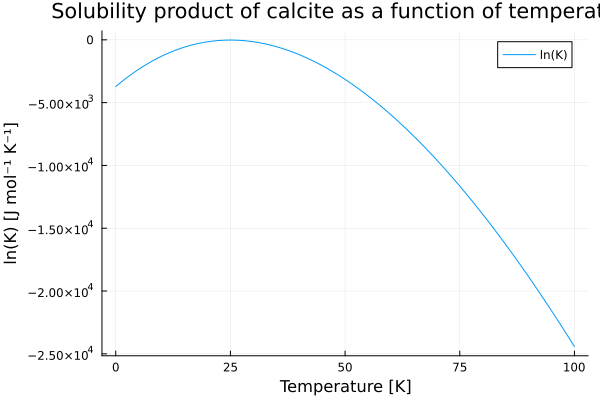
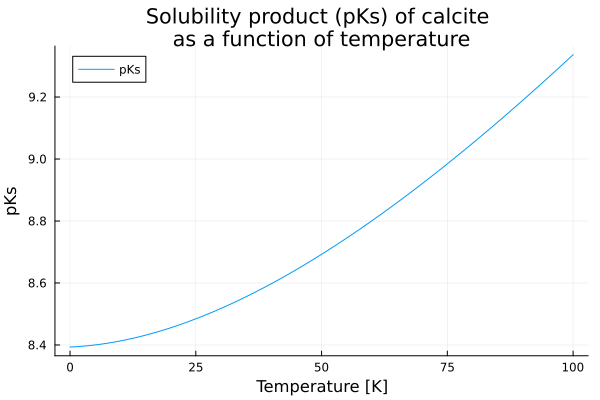
update doc.

diff --git a/docs/src/man/databases.md b/docs/src/man/databases.md
@@ -2,7 +2,7 @@
 
 So far, we have looked at the possibility of creating and manipulating any species, whether they exist or not. If we wanted to create a H₂O⁺⁴ molecule, it would not be a problem. However, you will admit that it is a little strange...
 
-This is why Cement Chemistry relies on existing databases, in particular [Cemdata18](https://www.empa.ch/web/s308/thermodynamic-data) and [PSI-Nagra-12-07](https://www.psi.ch/en/les/thermodynamic-databases). Cemdata18 is a chemical thermodynamic database for hydrated Portland cements and alkali-activated materials. PSI-Nagra is a Chemical Thermodynamic Database. The formalism adopted for these databases is that of [Thermofun](https://thermohub.org/thermofun/thermofun/) which is a universal open-source client that delivers thermodynamic properties of substances and reactions at the temperature and pressure of interest. The information is stored in json files.
+This is why ChemistryLab relies on existing databases, in particular [Cemdata18](https://www.empa.ch/web/s308/thermodynamic-data) and [PSI-Nagra-12-07](https://www.psi.ch/en/les/thermodynamic-databases). Cemdata18 is a chemical thermodynamic database for hydrated Portland cements and alkali-activated materials. PSI-Nagra is a Chemical Thermodynamic Database. The formalism adopted for these databases is that of [Thermofun](https://thermohub.org/thermofun/thermofun/) which is a universal open-source client that delivers thermodynamic properties of substances and reactions at the temperature and pressure of interest. The information is stored in json files.
 
 ## Database parsing
 
@@ -10,47 +10,44 @@ With ChemistryLab, you can parse a ThermoFun-like json file and return DataFrame
 
 ```julia
 using ChemistryLab
-df_elements, df_substances, df_reactions, dict_species, dict_reactions = read_thermofun("../../../data/cemdata18-merged")
+filebasename = "cemdata18-merged.json"
+df_elements, df_substances, df_reactions = read_thermofun_database("../../../data/" * filebasename)
 ```
 
 For easier reading, the following commands can be run:
 
-```julia
+```@example database
+using ChemistryLab #hide
+filebasename = "cemdata18-merged.json" #hide
+df_elements, df_substances, df_reactions = read_thermofun_database("../../../data/" * filebasename) #hide
 show(df_elements, allcols=true, allrows=true)
 show(df_substances, allcols=true, allrows=false)
 show(df_reactions, allcols=true, allrows=false)
 ```
 
-!!! note "Units"
-    By default, when reading the database, the units of the various physical quantities are read. To remove this option, simply write `with_units=false` in the arguments of the `read_thermofun` function.
-
-Reading can also be done by entity using functions `read_thermofun_elements`, `read_thermofun_substances` or `read_thermofun_reactions`. For example, reading of substances can be done as follows:
-
-```julia
-df_substances = read_thermofun_substances("data/cemdata18-merged.json"; with_units=true, add_species=true, all_properties=true, debug=false)
-```
-
-<!-- !!! warning "Database loading speed"
-    Loading databases can be time-consuming because ChemistryLab reconstructs numerous structures, such as 'Species' and their associated properties, as well as 'Reactions'. However, this reconstruction, when performed from databases, is not intended to be repeated multiple times, as the databases are static. One way to increase loading speed is to serialize the data used by ChemistryLab and save the result in its working directory. This can be done as follows:
-    ```julia
-    using Serialization
-    serialize("cemdata18.jls", (df_substances, df_reactions))
-    df_substances, df_reactions = deserialize("cemdata18.jls")
-    ``` -->
-
 ## Species properties construction during database parsing
-Species properties can be constructed while reading the database with `all_properties=true` as an argument. These properties are values or functions that generally depend on temperature. This is the default option. However, the construction process can be time-consuming. Therefore, it's wise to call this type of function sparingly.
+All species in the database could be constructed from Dataframes obtained by reading the database. However, this operation is time-consuming and of little practical value, as the chemical reactions of interest are often a much smaller subset.
 
-Currently, species properties are: molar mass (`molar_mass`), a reference temperature `Tref`, heat capacity `Cp` (see [here](./species.md) to express `Cp` as a function of the temperature), enthalpy change of formation `ΔₐH`, entropy of formation `S`, Gibbs energy of formation `ΔₐG`, and molar volume `V⁰`. Values and functions are described in [Cemdata18 paper](https://www.empa.ch/web/s308/thermodynamic-data).
+Let's take a subset representing the dissolution of calcite in pure water. `get_compatible_species` allows us to construct the subset of species that can be present during the reaction of calcite in water.
 
 ```julia
-df_elements, df_substances, df_reactions, dict_species, dict_reactions = read_thermofun("../../../data/cemdata18-merged"; with_units=true, all_properties=true)
+df_calcite = get_compatible_species(split("Cal H2O@"), df_substances;
+                        aggregate_states=[AS_AQUEOUS], exclude_species=split("H2@ O2@ CH4@"), union=true)
 ```
 
-For each species, properties can then be obtained as follows:
+The construction of thermodynamic functions is then done by calling the `build_species_from_database` function:
 
 ```julia
-dict_species["Portlandite"]
+dict_species_calcite = build_species_from_database(df_calcite)
+```
+
+For example, $\text{Ca}(\text{HCO}_3)^+$ properties can be read as follows:
+
+```@example database
+df_calcite = get_compatible_species(split("Cal H2O@"), df_substances;
+                        aggregate_states=[AS_AQUEOUS], exclude_species=split("H2@ O2@ CH4@"), union=true) #hide
+dict_species_calcite = build_species_from_database(df_calcite) #hide
+dict_species_calcite["Ca(HCO3)+"]
 ```
 
 ## Primary species extraction

diff --git a/docs/src/man/species.md b/docs/src/man/species.md
@@ -85,35 +85,45 @@ CO₂ = Species(Dict(:C=>1, :O=>2); name="Carbon dioxide", symbol="CO₂⤴", ag
 
 The molar mass is systematically calculated and integrated into the species properties. The heat capacity function is also integrated as a predefined function of the `Species` structure. This function is expressed as follows:
 
-${C_p}^° = a_0 + a_1 T + a_2 T^{−2} + a_3 T^{−0.5}$
+$a_0 + a_1 * T + a_2 * T^{-2} + a_3 * T^{-0.5} + a_4 * T^2 + a_5 * T^3 + a_6 * T^4 + a_7 * T^{-3} + a_8 * T^{-1} + a_9 * T^{0.5} + a_{10} * log(T)$
 
 Other species properties are open and left to the discretion of users. We can of course imagine that these properties could contain thermodynamic properties such as the Gibbs energy of formation or even the entropy variation, these properties themselves being temperature dependent. These properties must nevertheless respect one of the following types: `Number`, `AbstractVector{<:Number}`, `Function`, `AbstractString`.
 
-Imagine, for example, that we wanted to construct the $CO_2$ molecule with some of its thermodynamic properties. The Gibbs energy of formation of this species is equal to $-394.39\; KJ/mol$. This property, intrinsic to the species, can be added simply as follows:
+Imagine, for example, that we wanted to construct the $CO_2$ molecule in a gaseous state with some of its thermodynamic properties. The thermodynamic properties of the molecule, which can be found for example on the website [thermoddem](https://thermoddem.brgm.fr/), are as follows at 298 K and 1 atm:
 
-```@example CO2
-using DynamicQuantities, ModelingToolkit
-CO₂.ΔₐG⁰ = -394.39u"kJ/mol"
-```
+- heat capacity ${C_p}^°$: 37.14 $J.mol^{-1}.K^{-1}$
+- molar volume $V^°$: 25.3 $cm^3.mol^{-1}$
+- enthalpy of formation $\Delta_a {H^°}$: -393510 $J.mol^{-1}$
+- entropy $S^°$: 213.785 $J.mol^{-1}.K^{-1}$ 
+- Gibbs free energy of formation $\Delta_a {G^°}: -394373 $J.mol^{-1}$
 
-Heat capacity, on the other hand, is introduced in the following way: 
+Furthermore, as explained above, heat capacity is a function of temperature. The parameters $a_0$, $a_1$, $a_2$, and $a_3$ can also be found on the same website. For CO2, the values are as follows: $a_0 = 33.98$, $a_1 = 23.88e-3$, $a_2 = 0$ et $a_3 = 0$. 
 
-<!-- @example CO2 -->
 ```julia
-coeffs = [:a₀ => 44.22u"J/K/mol", :a₁ => 0.0088u"J/mol/K^2", :a₂ => -861.904e6u"J*K/mol", :a₃ => 0.0u"J/mol/√K"]
-CO₂.Cp = ThermoFunction(dict_cp_ft_equation[:Cp], coeffs; ref=[:T=>298.15u"K", :P=>1u"bar"])
+using DynamicQuantities, ModelingToolkit
+th_prop_0_CO2 = Dict(:Cp⁰ => 37.14, :ΔₐH⁰ => -393510, :S⁰ => 213.785, :ΔₐG⁰ => -394373, :V⁰ => 25.3)
+coeffs = Dict(:a₀ => 33.98, :a₁ => 23.88e-3, :a₂ => 0.0, :a₃ => 0.0)
 ```
 
-!!! note "Heat capacity value"
-    By default, the call of $C_p$ function return the value of the function for a temperature equal to $T_{ref}$.
+!!! note "Heat capacity function"
+    Although the function describing heat capacity has many parameters, it is of course possible to use only some of them. Here, only the parameters $a_0$ and $a_1$ are non-zero. The expression therefore becomes: $a_0 + a_1 * T$.
+
+
+!!! danger "Reference temperature"
+    It is important to define the reference temperature at which the thermodynamic properties are measured.
     ```julia
-    CO₂.Cp()
+    T_ref = Dict(:T => 298.15)
     ```
 
-Other functions can be added to species. For example, we can add a `rate` to the CO2 species:
+#### Heat capacity, enthalpy and free energy as a function of temperature
 
-<!-- @example CO2 -->
-```julia
-CO₂.rate = ThermoFunction(:((c₁+c₂*t)/(c₃+c₄*√t)), [:c₁ => 1.0, :c₂ => 2.0u"1/s", :c₃ => 3.0, :c₄ => 4.0u"1/√s"])
-CO₂.rate(1u"s")
+Reference thermodynamical properties and temperature being defined, a simple call to `build_thermo_functions` allows the thermodynamic functions, such as heat capacity, entropy, enthalpy, and free enthalpy to be built as a function of temperature.
+
+```@example CO2
+using DynamicQuantities, ModelingToolkit #hide
+th_prop_0_CO2 = Dict(:Cp⁰ => 37.14, :ΔₐH⁰ => -393510, :S⁰ => 213.785, :ΔₐG⁰ => -394373, :V⁰ => 25.3) #hide
+coeffs = Dict(:a₀ => 33.98, :a₁ => 23.88e-3, :a₂ => 0.0, :a₃ => 0.0) #hide
+T_ref = Dict(:T => 298.15) #hide
+params_Cp_CO2 = merge(th_prop_0_CO2, coeffs, T_ref)
+dtf_CO2 = build_thermo_functions(:cp_ft_equation, params_Cp_CO2)
 ```

diff --git a/docs/src/examples/from_scratch.md b/docs/src/examples/from_scratch.md
@@ -1,12 +1,13 @@
-# From scratch
+# Calculation of thermodynamic properties of CaCO3 dissolution
 
 This example is equivalent to quickstart except that no database is needed.
 
 Let us recall the example which consisted of studying the dissolution of calcite in water.
 
-<p style="text-align:center;">
-CaCO<sub>3</sub> &rlarr; 2H<sub>2</sub>O + Ca<sup>2+</sup> + CO<sub>3</sub><sup>2-</sup>
-</p>
+$\text{CaCO}_3 \rightleftharpoons \text{Ca}^{2+} + {\text{CO}_3}^{2-}$
+
+
+
 
 It is possible to calculate the thermodynamic properties of the reaction, in particular the solubility constant of the reaction ($\ln K$) which is related to the Gibbs free energy of the reaction ($\Delta_r G^°$). This solubility constant is a function of temperature and the calculation is performed at a reference temperature of 298 K and at a pressure of 1 Atm using the following equation:
 
@@ -60,7 +61,7 @@ th_prop_0_calcite = Dict(:Cp⁰ => 83.47, :ΔₐH⁰ => -1207605, :S⁰ => 91.78
 The second step is to describe the evolution of heat capacity as a function of temperature for each species. As exposed in the previous figure, heat capacity is expressed as a function of temperature: $C_p = a + bT + cT^2$. A reference temperature can then be defined in order to construct thermodynamic functions, such as heat capacity, entropy, enthalpy and free enthalpy. For calcite, this can be done as follows:
 
 ```julia
-params_Cp_calcite = Dict(:a₀ => 99.72, :a₁ => 26.92e3, :a₂ => -21.58e-5)
+params_Cp_calcite = Dict(:a₀ => 99.72, :a₁ => 26.92e-3, :a₂ => -21.58e5)
 T_ref = Dict(:T => 298.15)
 params_calcite = merge(th_prop_0_calcite, params_Cp_calcite, T_ref)
 dtf_calcite = build_thermo_functions(:cp_ft_equation, params_calcite)
@@ -123,7 +124,7 @@ plot!(p1, θ -> calcite.ΔₐG⁰(T = 273.15+θ), 0:0.1:100, label="ΔₐG⁰ of
 ![pcoa plot](../assets/pcoplot.png)
 
 
-Similarly, we can provide information on the thermal capacity of species $Ca^{2+}$ and ${CO_3}^{-2}$, as proposed in the thermoddem database:
+Similarly, we can provide information on the thermal capacity of species $Ca^{2+}$ and ${CO_3}^{2-}$, as proposed in the thermoddem database:
 
 ![Figure](../assets/ca_properties_thermoddem.png)
 
@@ -163,19 +164,12 @@ During the construction of this reaction, the thermodynamic properties of the re
 
 $RT \; ln(K) = - \Delta_r G^° = - \sum_i \nu_i  \Delta_f {G^°}_i$
 
-
-```@example example1
-T = ThermoFunction(:T)
-R = 8.314411 #"J/K/mol"
-pKs = (Ca²⁺.ΔₐG⁰ + CO₃²⁻.ΔₐG⁰ - calcite.ΔₐG⁰) / (R*T) / log(10)
-```
-
 ```julia
 using Plots
 
 p1 = plot(xlabel="Temperature [K]", ylabel="pKs", title="Solubility product (pKs) of calcite \nas a function of temperature")
-plot!(p1, θ ->pKs(T = 273.15+θ), 0:0.1:100, label="pKs")
 plot!(p1, θ -> r.ΔᵣG⁰(T = 273.15+θ) / 8.31 / (273.15+θ) / log(10), 0:0.1:100, label="pKs")
+savefig("solubility_calcite.png")
 ```
 
 ![pcoa plot](../assets/solubility_calcite.png)

diff --git a/docs/src/man/cement_species.md b/docs/src/man/cement_species.md
@@ -1,5 +1,3 @@
-
-
 # Cement Species
 
 The manipulation of chemical formulas can also be done in cement notation. `CemSpecies` is a composite type similar to `Species`.
@@ -28,7 +26,7 @@ Here are several example of `CemSpecies` construction:
 C3S = CemSpecies("C3S"; name="Alite", symbol="C₃S", aggregate_state=AS_CRYSTAL, class=SC_COMPONENT)
 C2S = CemSpecies("C₂S"; name="Belite", symbol="C₂S", aggregate_state=AS_CRYSTAL, class=SC_COMPONENT)
 C3A = CemSpecies("C3A"; name="Aluminate", symbol="C₃A", aggregate_state=AS_CRYSTAL, class=SC_COMPONENT)
-C4AF = CemSpecies(Dict(:C => 4, :A => 1, :F => 1); name="Ferrite", symbol="C₄AF")
+C4AF = CemSpecies(Dict(:C => 4, :A => 1, :F => 1); name="Ferrite", symbol="C₄AF", aggregate_state=AS_CRYSTAL, class=SC_COMPONENT)
 ```
 
 !!! warning "Warning"
@@ -47,7 +45,7 @@ The previous species were constructed from integer values of the number of
 ```@example
 using ChemistryLab
 ox = Dict(:C => 1.666667, :S => 1, :H => 2.1)
-jennite = CemSpecies(ox)
+jennite = CemSpecies(ox, aggregate_state=AS_CRYSTAL, class=SC_COMPONENT)
 ```
 
 Symbolic values are also allowed. In this case, you need to use the [`SymPy`](https://github.com/JuliaPy/SymPy.jl) library:
@@ -92,7 +90,7 @@ Or more complex one:
 
 ```@example CSH
 using ChemistryLab #hide
-CSH = Species("(SiO2)1(CaO)1.666667(H2O)2.1")
+CSH = Species("(SiO2)1(CaO)1.666667(H2O)2.1", aggregate_state=AS_CRYSTAL, class=SC_COMPONENT)
 jennite = CemSpecies(CSH)
 ```
 

diff --git a/docs/src/quickstart.md b/docs/src/quickstart.md
@@ -75,7 +75,7 @@ Again, when constructing the reactions, the thermodynamic properties of the reac
 dict_reactions_calcite["Cal"].logK⁰
 ```
 
-```julia
+```@example from_scratch
 p2 = plot(xlabel="Temperature [K]", ylabel="pKs", title="Solubility product (pKs) of calcite \nas a function of temperature")
 plot!(p2, θ -> dict_reactions_calcite["Cal"].logK⁰(T = 273.15+θ), 0:0.1:100, label="pKs")
 ```
